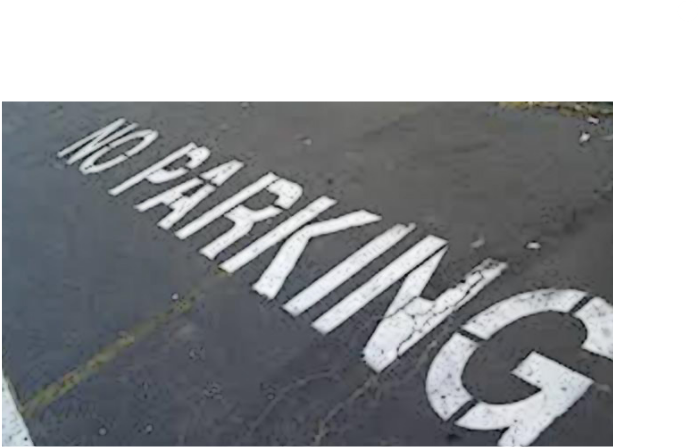
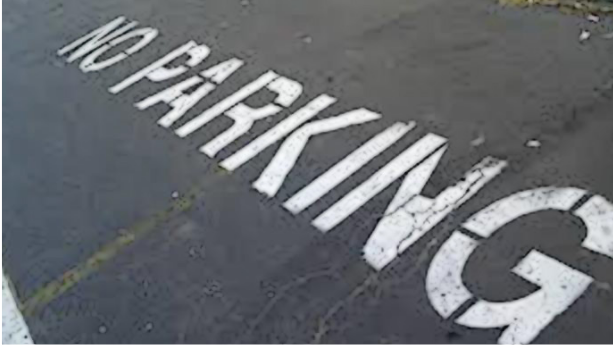
adjust img sizing

diff --git a/pages/index.tsx b/pages/index.tsx
@@ -37,7 +37,7 @@ export default function Home() {
                 We take the hassle of finding all the vehicles in violation out of your hands. We work hand and hand with various local tow truck companies.
                 Eagle Eye will be there as your representative any time day or night.</p>
             </section>
-            <Image src={Site1} alt='parking-lot' className='portfolio-img' width={470} height={355}/>
+            <Image src={Site1} alt='parking-lot' className='portfolio-img' width={470} height={355} placeholder='blur'/>
           </div>
 
           <section>
@@ -46,7 +46,7 @@ export default function Home() {
           </section>
 
           <div className='sbsContainer'>
-              <Image src={Site2} alt='parking-lot-text' className='portfolio-img' width={395} height={225}/>
+              <Image src={Site2} alt='parking-lot-text' className='portfolio-img' width={400} height={250}/>
               <section className='sbsText'>
                 <h2>We Assist With:</h2>
                 <ul>

diff --git a/pages/services/parking.tsx b/pages/services/parking.tsx
@@ -45,7 +45,7 @@ export default function Home() {
 
                 <h2>Examples of Violations We Monitor:</h2>
                 <div className='sbsContainer'>
-                    <Image src={Site2} alt='parking-lot-text' className='portfolio-img' width={395} height={225} />
+                    <Image src={Site2} alt='parking-lot-text' className='portfolio-img' placeholder="blur"/>
 
                         <section className='sbsText'>
                             <ul>
@@ -65,7 +65,7 @@ export default function Home() {
                             </ul>
                         </section>
 
-                        <Image src={Site2} alt='parking-lot-text' className='portfolio-img' width={395} height={225} />
+                        <Image src={Site2} alt='parking-lot-text' className='portfolio-img' placeholder="blur"/>
                 </div>
 
                 <div>
